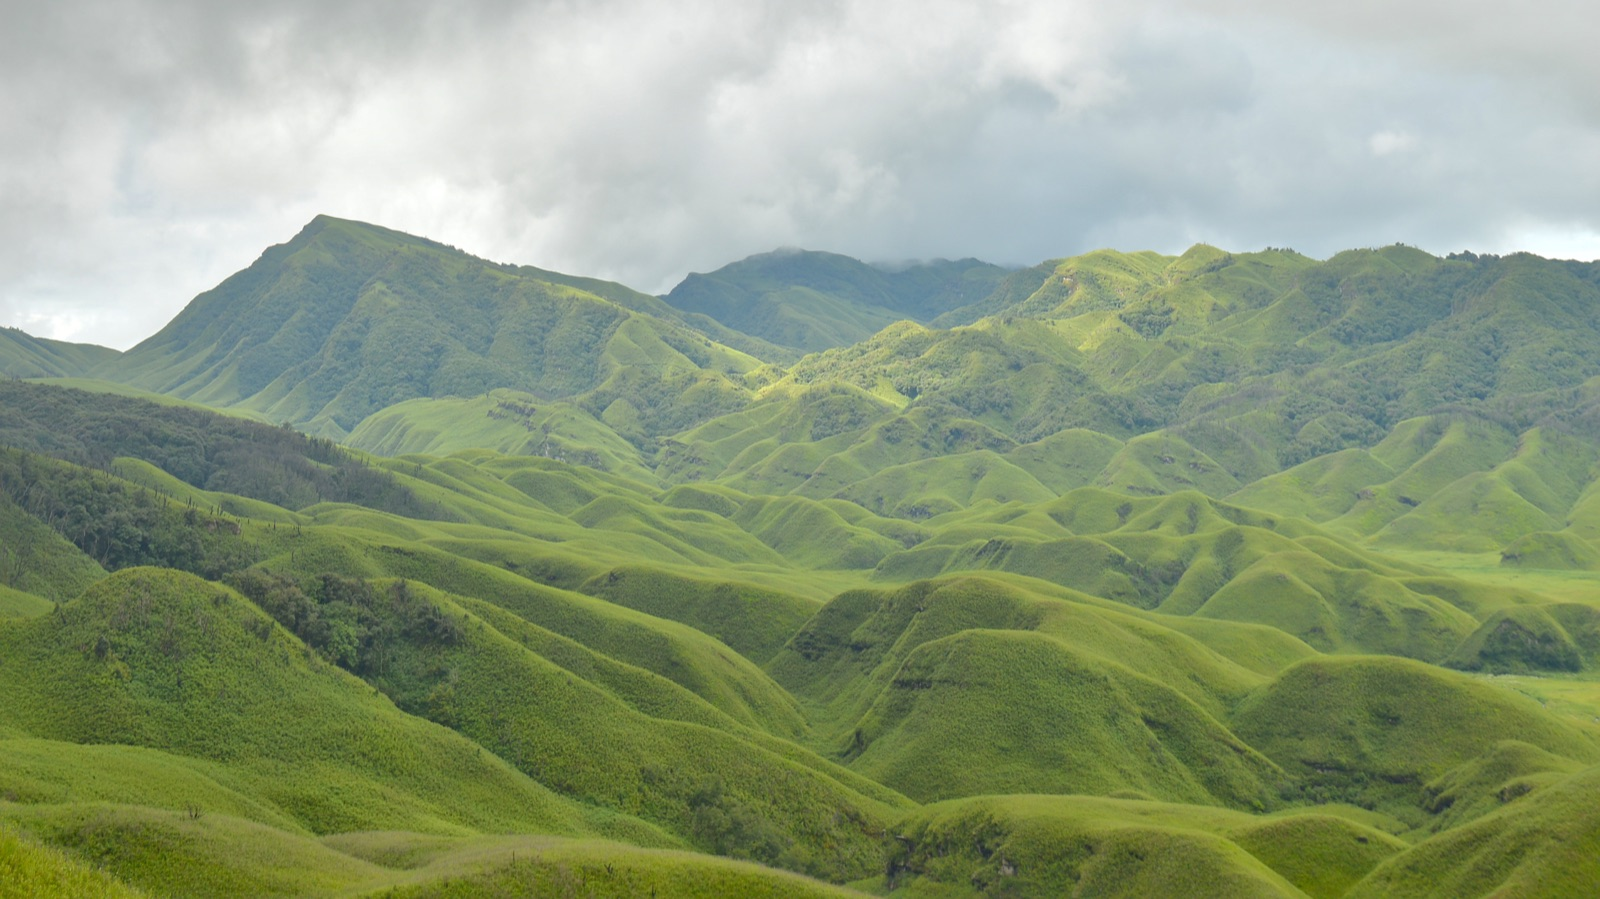
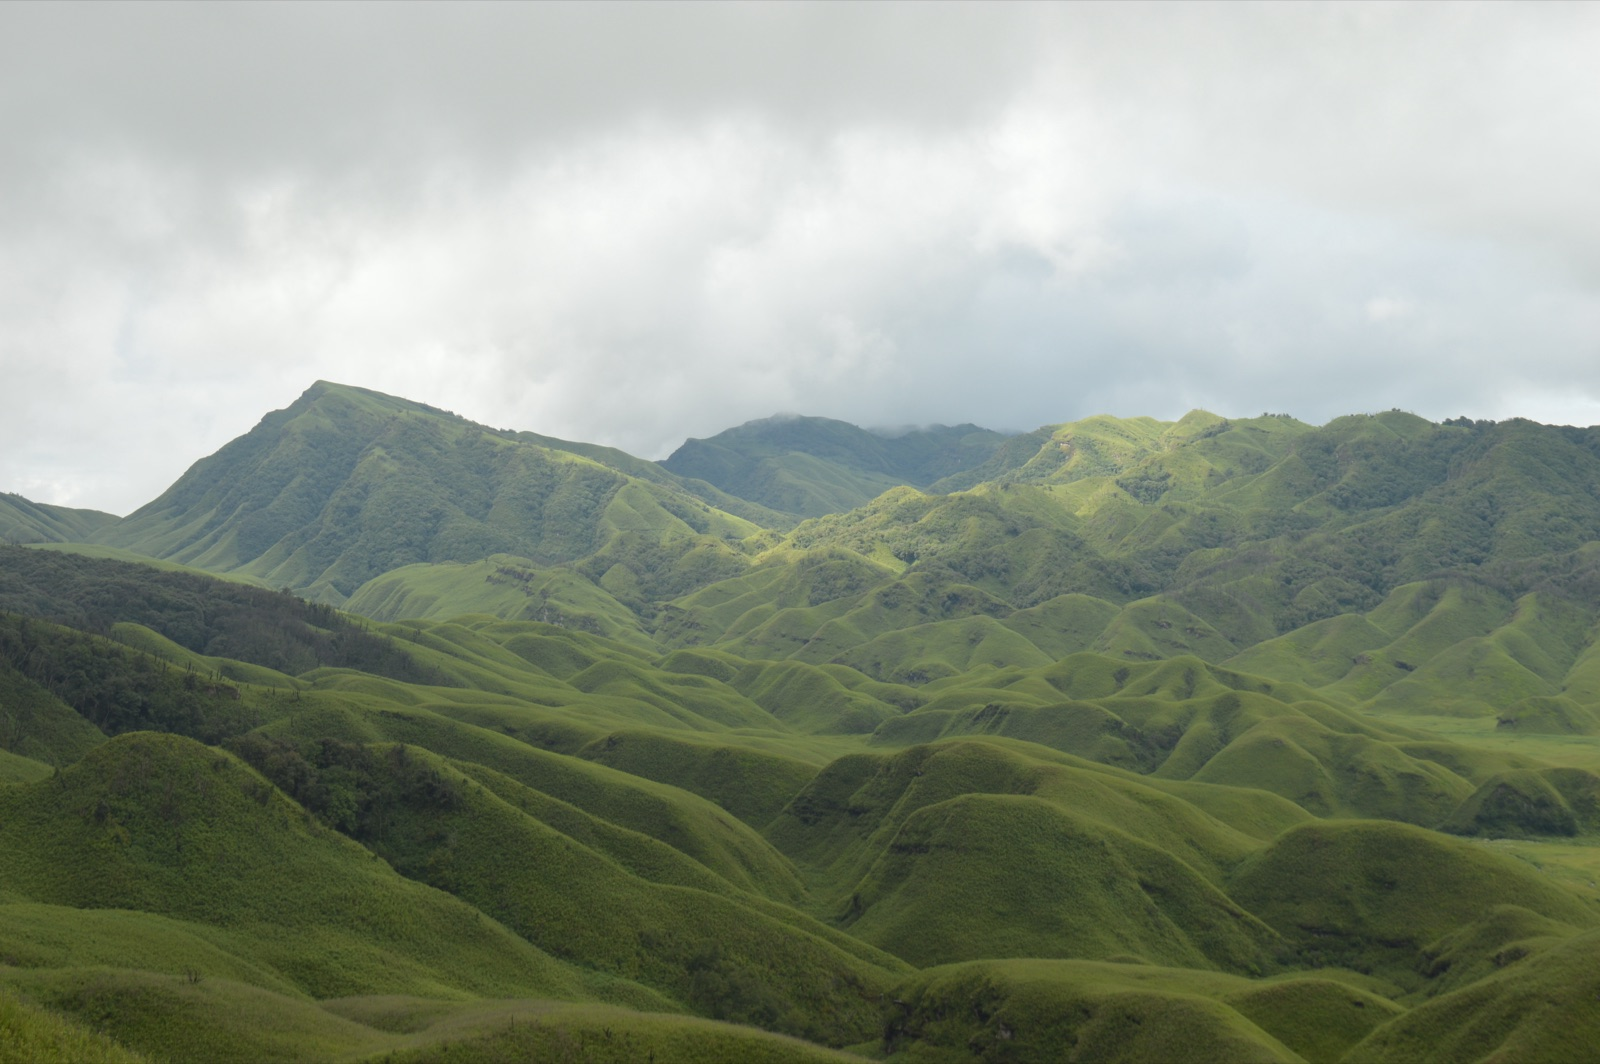
Galleries: drop images with messy author-credit text, swap in clean-credited ones
- Nilgiri: Bokkapuram (558-char author boilerplate) -> Nilgiri Mountain Railway
- Nanda Devi / Sikkim / Nagaland: 'Original:X Derivative:Y' -> the clean original photos
- Nathu La: 'Self (User:..) derivative work' stairs -> 'The Nathula pass scene'
- Trim affiliation/wiki suffixes on Arunachal (Sela Pass) + Zoji La (pass road) credits

diff --git a/_stories/nilgiri-hills/index.md b/_stories/nilgiri-hills/index.md
@@ -20,9 +20,9 @@ gallery:
   - src: /assets/covers/nilgiri/doddabetta.jpg
     caption: "Green valleys below Doddabetta, the Nilgiris' highest peak"
     credit: "Fruiticos · CC BY-SA 4.0"
-  - src: /assets/covers/nilgiri/bokkapuram.jpg
-    caption: "The Nilgiri range above Bokkapuram"
-    credit: "This Photo was taken by Timothy A. Gonsalves. Feel free to use my photos, but please mention me as the author. I would much appreciate if you send me an email tagooty@yahoo.com or write on my talk page, for my information. Please contact me before commercial use. Please do not upload an edited image here without consulting me. I would like to make corrections only at my own source to ensure that the changes improve the image and are preserved.Otherwise you may upload an edited image with a new name. Please use one of the templates derivative or extract · CC BY-SA 4.0"
+  - src: /assets/covers/nilgiri/railway.jpg
+    caption: "The Nilgiri Mountain Railway climbing through the hills"
+    credit: "Stephan Niewolik · CC BY 3.0"
   - src: /assets/covers/nilgiri/in-ghats.jpg
     caption: "The Nilgiris, a high block within the Western Ghats"
     credit: "Manikantareddy · CC BY-SA 4.0"

diff --git a/_stories/nanda-devi/index.md b/_stories/nanda-devi/index.md
@@ -24,8 +24,8 @@ gallery:
     caption: "A lenticular cloud over the Nanda Devi massif"
     credit: "Ashutosh Mohan · CC BY-SA 4.0"
   - src: /assets/covers/nanda-devi/ranikhet.jpg
-    caption: "The Himalayan skyline from Ranikhet"
-    credit: "Original: Harshit SR Derivative work: UnpetitproleX · CC BY-SA 4.0"
+    caption: "Nanda Devi on the skyline from Ranikhet"
+    credit: "Harshit SR · CC BY-SA 4.0"
 ---
 
 At 7,816 m, Nanda Devi is the tallest summit wholly inside India. It sits inside a spectacular **glacial sanctuary** — a ring of high peaks enclosing a basin drained by the Rishiganga — carved from Himalayan crystalline rock uplifted in the collision.

diff --git a/_stories/nathu-la/index.md b/_stories/nathu-la/index.md
@@ -13,9 +13,9 @@ latlng: [27.39, 88.83]
 age_ma: 50
 feature_type: "Mountain pass"
 gallery:
-  - src: /assets/covers/nathula/stairs.jpg
-    caption: "The stairway at Nathu La, on the old India–Tibet trade route"
-    credit: "Nathu_La-Stairs.JPG: Self (User:Ambuj.Saxena) derivative work: Mfield (talk) · public domain"
+  - src: /assets/covers/nathula/pass-scene.jpg
+    caption: "Nathu La, on the old India–Tibet trade route"
+    credit: "Abhishek Dey · CC BY-SA 4.0"
   - src: /assets/covers/nathula/pass.jpg
     caption: "The arduous climb to Nathu La, Sikkim"
     credit: "Mr. Debapriya Hore · CC BY-SA 4.0"

diff --git a/_stories/nagaland-ophiolite/index.md b/_stories/nagaland-ophiolite/index.md
@@ -10,7 +10,7 @@ feature_type: "Ophiolite"
 gallery:
   - src: /assets/covers/nagaland/dzukou-green.jpg
     caption: "The green sweep of the Dzukou Valley"
-    credit: "Original: Samudra Bikash Hazarika Derivative work: UnpetitproleX · CC BY-SA 4.0"
+    credit: "Samudra Bikash Hazarika · CC BY-SA 4.0"
   - src: /assets/covers/nagaland/dzukou-dusk.jpg
     caption: "Dusk over the Dzukou Valley, near Viswema"
     credit: "পাপৰি বৰা · CC BY-SA 4.0"

diff --git a/_stories/sikkim-biodiversity/index.md b/_stories/sikkim-biodiversity/index.md
@@ -10,7 +10,7 @@ feature_type: "Fold mountains (Himalaya)"
 gallery:
   - src: /assets/covers/sikkim/gurudongmar.jpg
     caption: "Gurudongmar Lake, one of the highest lakes on Earth"
-    credit: "Original: Yoghya Derivative work: UnpetitproleX · CC BY-SA 4.0"
+    credit: "Abhishek · CC BY-SA 4.0"
   - src: /assets/covers/sikkim/yumthang.jpg
     caption: "The Yumthang Valley of flowers, North Sikkim"
     credit: "soumyajit pramanick · CC BY-SA 2.0"

diff --git a/_stories/zoji-la/index.md b/_stories/zoji-la/index.md
@@ -21,7 +21,7 @@ gallery:
     credit: "Narender9 · CC BY-SA 4.0"
   - src: /assets/covers/zoji-la/pass-road.jpg
     caption: "The cliff-edge road over Zoji La"
-    credit: "Yogeshgupta26 at English Wikipedia · public domain"
+    credit: "Yogeshgupta26 · public domain"
   - src: /assets/covers/zoji-la/vishansar.jpg
     caption: "Vishansar Lake near Sonamarg"
     credit: "Rohit Sharma · CC BY-SA 4.0"

diff --git a/_stories/arunachal-himalayan-syntaxis/index.md b/_stories/arunachal-himalayan-syntaxis/index.md
@@ -19,6 +19,6 @@ gallery:
     credit: "Kingshuk Mondal · CC BY 4.0"
   - src: /assets/covers/arunachal/sela-pass.jpg
     caption: "The 13,700-ft Sela Pass, West Kameng"
-    credit: "Abhishek Gaurav, from Tezpur university, Assam · CC BY-SA 4.0"
+    credit: "Abhishek Gaurav · CC BY-SA 4.0"
 map_title: "Eastern Himalayan Syntaxis"
 ---
